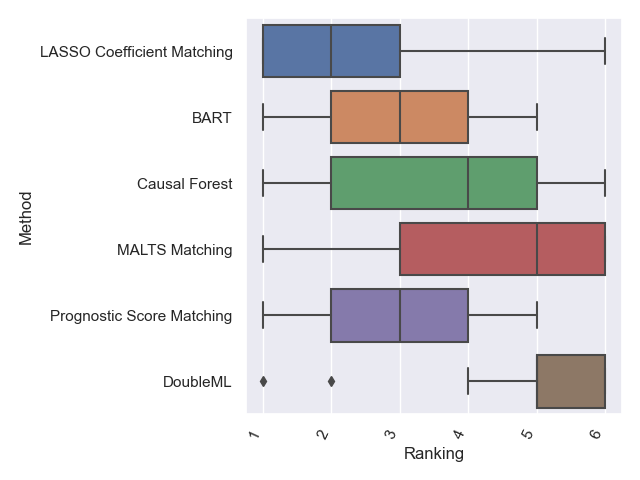
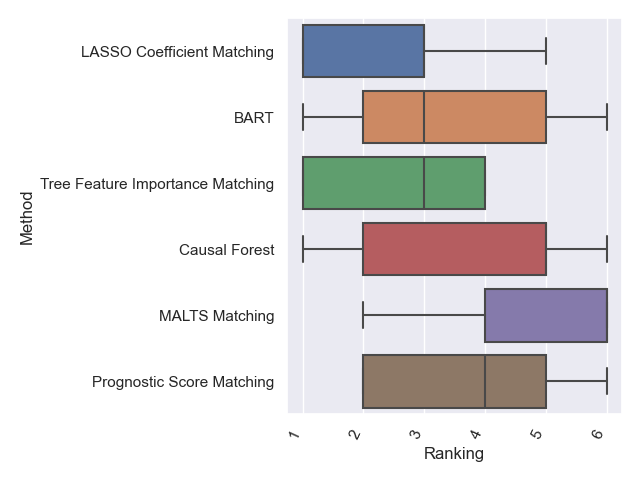
quick test experiment

diff --git a/Experiments/acic_error_and_runtime/cate_error.py b/Experiments/acic_error_and_runtime/cate_error.py
@@ -113,22 +113,22 @@ cate_df['Method'] = [method_name for i in range(cate_df.shape[0])]
 df_err = df_err.append(cate_df[['Method', 'True_CATE', 'Est_CATE', 'Relative Error (%)']].copy(deep=True))
 print(f'{method_name} method complete: {time.time() - start}')
 
-if run_malts:
-    method_name = 'MALTS Matching'
-    start = time.time()
-    m = pymalts.malts_mf('Y', 'T', data=df_data, discrete=binary+categorical, k_tr=15, k_est=k_est,
-                         n_splits=n_splits, estimator='linear', smooth_cate=False,
-                         gen_skf=split_strategy)
-    times[method_name] = time.time() - start
-    cate_df = m.CATE_df
-    cate_df = cate_df.rename(columns={'avg.CATE': 'Est_CATE'})
-    cate_df['True_CATE'] = df_true['TE'].to_numpy()
-    cate_df['Relative Error (%)'] = np.abs(
-        (cate_df['Est_CATE'] - cate_df['True_CATE']) / np.abs(cate_df['True_CATE']).mean())
-    cate_df['Method'] = [method_name for i in range(cate_df.shape[0])]
-    df_err = df_err.append(cate_df[['Method', 'True_CATE', 'Est_CATE', 'Relative Error (%)']].copy(deep=True))
-    print(f'{method_name} complete: {time.time() - start}')
-
+# if run_malts:
+#     method_name = 'MALTS Matching'
+#     start = time.time()
+#     m = pymalts.malts_mf('Y', 'T', data=df_data, discrete=binary+categorical, k_tr=15, k_est=k_est,
+#                          n_splits=n_splits, estimator='linear', smooth_cate=False,
+#                          gen_skf=split_strategy)
+#     times[method_name] = time.time() - start
+#     cate_df = m.CATE_df
+#     cate_df = cate_df.rename(columns={'avg.CATE': 'Est_CATE'})
+#     cate_df['True_CATE'] = df_true['TE'].to_numpy()
+#     cate_df['Relative Error (%)'] = np.abs(
+#         (cate_df['Est_CATE'] - cate_df['True_CATE']) / np.abs(cate_df['True_CATE']).mean())
+#     cate_df['Method'] = [method_name for i in range(cate_df.shape[0])]
+#     df_err = df_err.append(cate_df[['Method', 'True_CATE', 'Est_CATE', 'Relative Error (%)']].copy(deep=True))
+#     print(f'{method_name} complete: {time.time() - start}')
+#
 method_name = 'Prognostic Score Matching'
 start = time.time()
 cate_est_prog, _, _ = prognostic.prognostic_cv('Y', 'T', df_dummy_data,
@@ -141,47 +141,47 @@ df_err_prog['True_CATE'] = df_true['TE'].to_numpy()
 df_err_prog['Est_CATE'] = cate_est_prog['avg.CATE'].to_numpy()
 df_err = df_err.append(df_err_prog[['Method', 'True_CATE', 'Est_CATE', 'Relative Error (%)']])
 print(f'{method_name} complete: {time.time() - start}')
-
-method_name = 'DoubleML'
-start = time.time()
-cate_est_doubleml = doubleml.doubleml('Y', 'T', df_dummy_data, gen_skf=split_strategy)
-times[method_name] = time.time() - start
-
-df_err_doubleml = pd.DataFrame()
-df_err_doubleml['Method'] = [method_name for i in range(cate_est_doubleml.shape[0])]
-df_err_doubleml['Relative Error (%)'] = np.abs(
-    (cate_est_doubleml['avg.CATE'].to_numpy() - df_true['TE'].to_numpy()) / np.abs(df_true['TE']).mean())
-df_err_doubleml['True_CATE'] = df_true['TE'].to_numpy()
-df_err_doubleml['Est_CATE'] = cate_est_doubleml['avg.CATE'].to_numpy()
-df_err = df_err.append(df_err_doubleml[['Method', 'True_CATE', 'Est_CATE', 'Relative Error (%)']])
-print(f'{method_name} complete: {time.time() - start}')
-
-method_name = 'BART'
-start = time.time()
-cate_est_bart = bart.bart('Y', 'T', df_dummy_data, gen_skf=split_strategy)
-times[method_name] = time.time() - start
-
-df_err_bart = pd.DataFrame()
-df_err_bart['Method'] = [method_name for i in range(cate_est_bart.shape[0])]
-df_err_bart['Relative Error (%)'] = np.abs(
-    (cate_est_bart['avg.CATE'].to_numpy() - df_true['TE'].to_numpy()) / np.abs(df_true['TE']).mean())
-df_err_bart['True_CATE'] = df_true['TE'].to_numpy()
-df_err_bart['Est_CATE'] = cate_est_bart['avg.CATE'].to_numpy()
-df_err = df_err.append(df_err_bart[['Method', 'True_CATE', 'Est_CATE', 'Relative Error (%)']])
-print(f'{method_name} complete: {time.time() - start}')
-
-method_name = 'Causal Forest'
-start = time.time()
-cate_est_cf = causalforest.causalforest('Y', 'T', df_dummy_data, gen_skf=split_strategy)
-times[method_name] = time.time() - start
-
-df_err_cf = pd.DataFrame()
-df_err_cf['Method'] = [method_name for i in range(cate_est_cf.shape[0])]
-df_err_cf['Relative Error (%)'] = np.abs((cate_est_cf['avg.CATE'].to_numpy() - df_true['TE'].to_numpy())/np.abs(df_true['TE']).mean())
-df_err_cf['True_CATE'] = df_true['TE'].to_numpy()
-df_err_cf['Est_CATE'] = cate_est_cf['avg.CATE'].to_numpy()
-df_err = df_err.append(df_err_cf[['Method', 'True_CATE', 'Est_CATE', 'Relative Error (%)']])
-print(f'{method_name} complete: {time.time() - start}')
+#
+# method_name = 'DoubleML'
+# start = time.time()
+# cate_est_doubleml = doubleml.doubleml('Y', 'T', df_dummy_data, gen_skf=split_strategy)
+# times[method_name] = time.time() - start
+#
+# df_err_doubleml = pd.DataFrame()
+# df_err_doubleml['Method'] = [method_name for i in range(cate_est_doubleml.shape[0])]
+# df_err_doubleml['Relative Error (%)'] = np.abs(
+#     (cate_est_doubleml['avg.CATE'].to_numpy() - df_true['TE'].to_numpy()) / np.abs(df_true['TE']).mean())
+# df_err_doubleml['True_CATE'] = df_true['TE'].to_numpy()
+# df_err_doubleml['Est_CATE'] = cate_est_doubleml['avg.CATE'].to_numpy()
+# df_err = df_err.append(df_err_doubleml[['Method', 'True_CATE', 'Est_CATE', 'Relative Error (%)']])
+# print(f'{method_name} complete: {time.time() - start}')
+#
+# method_name = 'BART'
+# start = time.time()
+# cate_est_bart = bart.bart('Y', 'T', df_dummy_data, gen_skf=split_strategy)
+# times[method_name] = time.time() - start
+#
+# df_err_bart = pd.DataFrame()
+# df_err_bart['Method'] = [method_name for i in range(cate_est_bart.shape[0])]
+# df_err_bart['Relative Error (%)'] = np.abs(
+#     (cate_est_bart['avg.CATE'].to_numpy() - df_true['TE'].to_numpy()) / np.abs(df_true['TE']).mean())
+# df_err_bart['True_CATE'] = df_true['TE'].to_numpy()
+# df_err_bart['Est_CATE'] = cate_est_bart['avg.CATE'].to_numpy()
+# df_err = df_err.append(df_err_bart[['Method', 'True_CATE', 'Est_CATE', 'Relative Error (%)']])
+# print(f'{method_name} complete: {time.time() - start}')
+#
+# method_name = 'Causal Forest'
+# start = time.time()
+# cate_est_cf = causalforest.causalforest('Y', 'T', df_dummy_data, gen_skf=split_strategy)
+# times[method_name] = time.time() - start
+#
+# df_err_cf = pd.DataFrame()
+# df_err_cf['Method'] = [method_name for i in range(cate_est_cf.shape[0])]
+# df_err_cf['Relative Error (%)'] = np.abs((cate_est_cf['avg.CATE'].to_numpy() - df_true['TE'].to_numpy())/np.abs(df_true['TE']).mean())
+# df_err_cf['True_CATE'] = df_true['TE'].to_numpy()
+# df_err_cf['Est_CATE'] = cate_est_cf['avg.CATE'].to_numpy()
+# df_err = df_err.append(df_err_cf[['Method', 'True_CATE', 'Est_CATE', 'Relative Error (%)']])
+# print(f'{method_name} complete: {time.time() - start}')
 
 df_err.loc[:, 'Relative Error (%)'] = df_err.loc[:, 'Relative Error (%)'] * 100
 

diff --git a/src/linear_coef_matching.py b/src/linear_coef_matching.py
@@ -90,11 +90,14 @@ class LCM:
             self.M_T = M_T_hat / np.sum(M_T_hat) * self.p if not np.all(M_T_hat == 0) else np.ones(self.p)
         else:
             if method == 'linear':
-                model = linear.Lasso(**params).fit(self.X, self.Y)
+                model = linear.LassoCV().fit(self.X, self.Y)
                 M_hat = np.abs(model.coef_[:-1]).reshape(-1, )
             elif method == 'tree':
-                model = tree.DecisionTreeRegressor(max_depth=4).fit(self.X, self.Y)
-                M_hat = model.feature_importances_[:-1].reshape(-1,)
+                model = linear.LassoCV().fit(self.X, self.Y)
+                M_hat = np.abs(model.coef_[:-1]).reshape(-1, )
+                M_hat = np.where(M_hat > 0, 1, 0)
+                # model = tree.DecisionTreeRegressor(max_depth=4).fit(self.X, self.Y)
+                # M_hat = model.feature_importances_[:-1].reshape(-1,)
             self.M = (M_hat / np.sum(M_hat)) * self.p if not np.all(M_hat == 0) else np.ones(self.p)
         if return_score:
             if double_model:

diff --git a/Experiments/acic_error_and_runtime/plotting/errors.py b/Experiments/acic_error_and_runtime/plotting/errors.py
@@ -8,7 +8,7 @@ import seaborn as sns
 all_folders = glob(f"{os.getenv('RESULTS_FOLDER')}/*/", recursive=True)
 
 q = 0.5
-methods = ['LASSO Coefficient Matching', 'MALTS Matching', 'Prognostic Score Matching', 'DoubleML', 'BART', 'Causal Forest']
+methods = ['LASSO Coefficient Matching', 'Tree Feature Importance Matching', 'MALTS Matching', 'Prognostic Score Matching', 'BART', 'Causal Forest']
 all_errors = pd.DataFrame([], index=methods)
 failed_files = []
 name_to_label = {}
